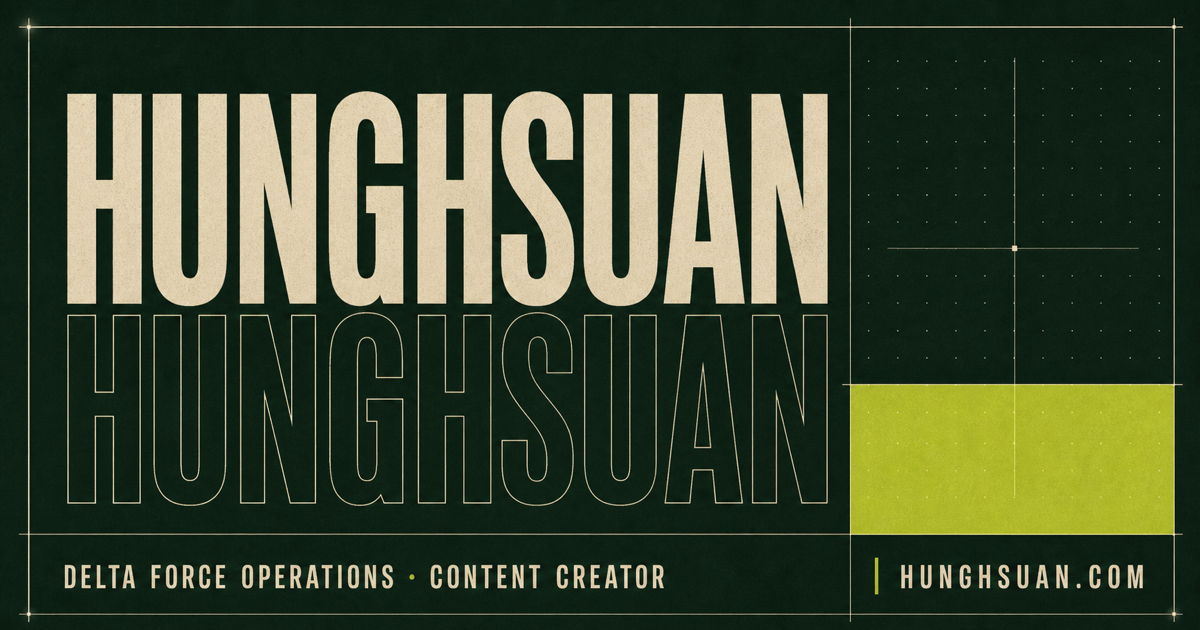
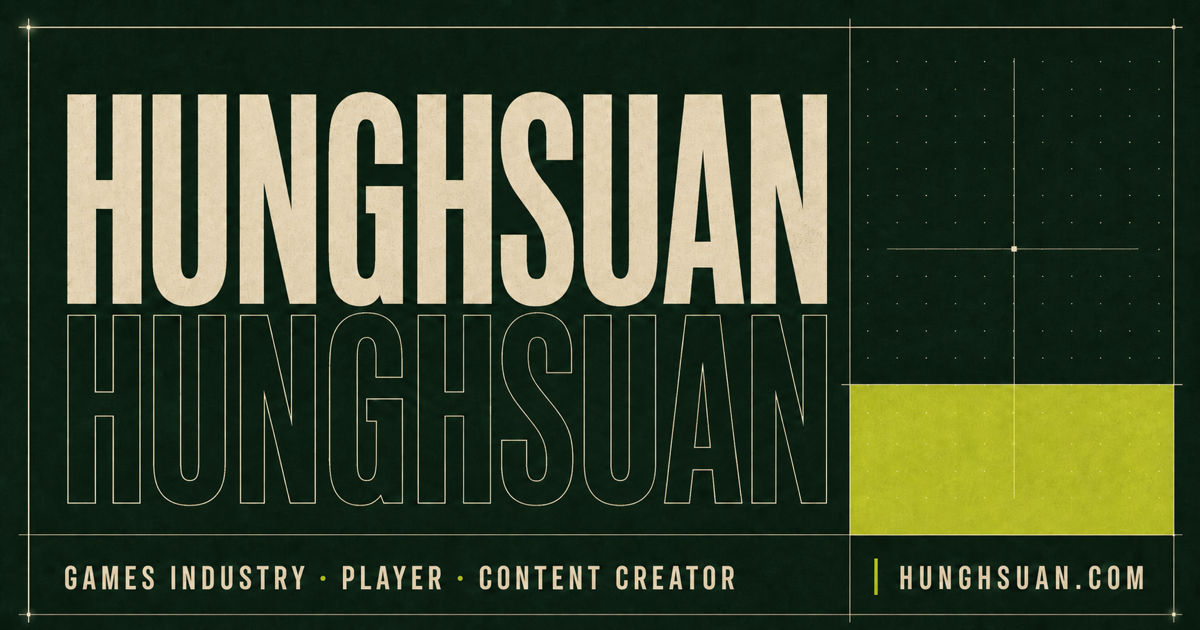
Refine profile copy and add PUBG Mobile

diff --git a/src/content/articles/en/delta-force-mobile-settings.md b/src/content/articles/en/delta-force-mobile-settings.md
@@ -1,32 +1,33 @@
 ---
-title: Complete Delta Force Mobile Settings Guide for iPad
-description: A practical Delta Force Mobile setup covering iPad gestures, four-finger controls, fixed sensitivity, frame rate, audio, and resource management.
+title: My Delta Force Mobile Settings for iPad
+description: My iPad setup for Delta Force Mobile, including gestures, four-finger controls, sensitivity, frame rate, audio, and downloads.
 lang: en
 articleSlug: delta-force-mobile-settings
 translationKey: delta-force-mobile-settings
 category: Tutorial
 publishedAt: 2026-07-30
+updatedAt: 2026-08-22
 draft: false
 featured: true
 videoUrl: https://www.youtube.com/watch?v=bBjU7fhpZE8
 ---
 
-> This guide is based on my settings video published on September 3, 2025. The demonstration device is an 11-inch 2024 iPad Pro with the M4 chip. Different devices, game versions, and play styles may require adjustments.
+> I first covered these settings in a video published on September 3, 2025. I used an 11-inch 2024 iPad Pro with the M4 chip. You may need to adjust a few things for a different device, game version, or play style.
 
-A good setup is about more than copying someone else’s sensitivity numbers. System gestures, the fire button you use, and the choice between fixed and accelerated turning can have a more immediate effect on your controls.
+A good setup is about more than copying someone else’s sensitivity numbers. System gestures, the fire button you use, and the choice between fixed and accelerated turning can make a bigger difference than any single value.
 
-This guide follows the same order as the video and turns the key points into a practical checklist.
+Here are the main settings from the video, organized as a checklist.
 
 ## The short version
 
 - Disable iPad system gestures that can interfere with multi-finger controls.
-- Use fixed Spatial Audio so that the sound field does not follow your head.
+- Set Spatial Audio to Fixed so that the sound field does not follow your head.
 - Use the right fire button if you need continuous melee attacks.
 - Disable camera rotation on the right fire and ADS buttons if you do not want them to drag your view.
 - Disable automatic vaulting to reduce accidental movement during fights.
 - Use fixed sensitivity so that the same swipe distance produces the same turn.
 - Prioritize a stable frame rate over maximum visual quality.
-- Disable licensed music before streaming or recording for platforms with copyright checks.
+- Disable licensed music before streaming or recording if the platform checks for copyrighted audio.
 
 ## 1. Prepare the iPad first
 
@@ -34,7 +35,7 @@ This guide follows the same order as the video and turns the key points into a p
 
 Open the iPad Settings app and find the multitasking and gesture options. Disable three-finger and multi-finger gestures that could be triggered while playing.
 
-If you use a three- or four-finger layout, these system gestures can interrupt touches, switch apps, or take control away from the game. Deal with them before adjusting the in-game HUD.
+If you use a three- or four-finger layout, these system gestures can interrupt touches, switch apps, or take control away from the game. Turn them off before adjusting the in-game HUD.
 
 ### Set Spatial Audio to fixed
 
@@ -44,25 +45,25 @@ Directional audio should stay consistent while you play. If the sound field move
 
 ### Use Do Not Disturb
 
-I normally enable Do Not Disturb so that notifications and other apps cannot interrupt a match. A dedicated gaming Focus mode also works; the goal is to prevent pop-ups from covering the screen.
+I normally enable Do Not Disturb so notifications do not interrupt a match. A dedicated gaming Focus mode works too; the goal is simply to keep pop-ups off the screen.
 
 ## 2. Basic combat controls
 
 ### Hold to aim down sights
 
-I use hold ADS: hold the button to aim and release it to return immediately. This makes switching between ADS and hip fire faster.
+I set ADS to Hold: press and hold to aim, then release to return to hip fire. It makes switching between the two feel faster.
 
-Aim assist is a personal choice rather than a setting every player must copy.
+Aim assist comes down to personal preference, so use whichever option feels better to you.
 
-### Let firing interrupt a reload
+### Let firing interrupt reloads
 
-Use the mixed option that allows firing to interrupt a reload. Once the ammunition count has updated, you can fire without waiting for the entire reload animation to finish.
+Use the mixed option that lets firing interrupt a reload. Once the ammo count updates, you can shoot without waiting for the full animation to finish.
 
-This removes the unnecessary recovery at the end of the animation and shortens the window in which you cannot shoot.
+That lets you skip the end of the reload animation and get back into the fight sooner.
 
 ### Separate actions that are easy to trigger accidentally
 
-Keep jumping, vaulting, crouching, and going prone on predictable controls. I disable automatic vaulting because it can trigger an unwanted vault animation in the middle of a gunfight.
+I keep jump, vault, crouch, and prone on separate, predictable buttons. I also disable automatic vaulting because it can trigger at the worst possible time during a fight.
 
 ## 3. Fire buttons and a four-finger layout
 
@@ -70,7 +71,7 @@ Keep jumping, vaulting, crouching, and going prone on predictable controls. I di
 
 Some layouts place the left and right fire buttons in the same position. The two buttons still have a stacking order, so the game may register a different one from the button you intended to press.
 
-The test shown in the video produced this result:
+In my test:
 
 - Holding the left fire button did not repeat melee attacks.
 - Holding the right fire button repeated melee attacks continuously.
@@ -89,13 +90,13 @@ If you do not want the camera to move while holding fire, disable rotation for t
 - Right index finger: ADS and additional actions.
 - Gyroscope: fine adjustment and recoil control.
 
-A shared HUD code is only a starting point for devices of the same size and a similar grip. Even on another 11-inch iPad, check where your fingers naturally rest before refining button size and position.
+A shared HUD code is only a starting point, even on a device of the same size. Check where your fingers naturally rest, then adjust the button sizes and positions to suit your grip.
 
 ## 4. Configure Operations before Warfare
 
 Operations has mode-specific controls for inventory and loot. I recommend completing the Operations layout first, then importing it into Warfare.
 
-Starting with Warfare means the Operations-only controls will still need to be placed later, creating extra work.
+If you start with Warfare, you will still have to place the Operations-only controls later.
 
 ## 5. Sensitivity: the mode matters more than the number
 
@@ -108,65 +109,65 @@ My personal reference values in the video were:
 - Global touch sensitivity: 125
 - Overall gyroscope sensitivity: 155
 
-These values are not universal. Use a simple rule when fine-tuning individual sensitivities:
+These values will not work for everyone. When fine-tuning your sensitivity:
 
 - If you cannot pull down enough or cannot keep up with a target, raise the value slightly.
 - If you regularly overshoot or pull down too far, lower it slightly.
 
-Change one value in small steps and test it for several matches. Replacing the entire sensitivity setup at once makes it harder to identify the real problem.
+Change one value at a time, in small steps, and test it for a few matches. If you replace every value at once, it is much harder to tell what actually helped.
 
 ## 6. Gameplay and looting
 
 ### Closing inventory when taking damage
 
-I disable the option that automatically closes the inventory or loot screen when taking damage, choosing when to leave it myself.
+I turn off the option that automatically closes the inventory or loot screen when I take damage. I prefer to decide when to close it myself.
 
 There is no single correct answer:
 
 - If a bot is dealing minor damage, taking the valuable item first may be worth it.
 - If a real player is shooting, close the interface, move, and fight immediately.
 
-Enabling auto-close gives a faster automatic response. Disabling it gives you more control. Choose based on how confidently you read the situation.
+Auto-close reacts faster, while turning it off gives you more control. Pick the option that fits the way you play.
 
 ### Enable smart medical recommendations
 
-I recommend enabling smart medical item suggestions. The game can select an appropriate bandage, surgical kit, or other treatment for the current injury, reducing time spent searching through the inventory.
+I recommend enabling smart medical item suggestions. The game can suggest a bandage, surgical kit, or other treatment for your current injury, saving you time in the inventory.
 
 ## 7. Graphics, frame rate, and audio
 
 ### Prioritize a stable frame rate
 
-My setup is designed for a clean and responsive image:
+I keep the visuals simple and prioritize responsiveness:
 
 - Graphics quality: Smooth
-- Frame rate: the highest option the device can sustain; the demonstration device uses 180 FPS
+- Frame rate: the highest option the device can sustain; my iPad is set to 180 FPS
 - Visual style: Vivid
 - Anti-aliasing: enabled
 - Hit effect color: pink
 
-A high frame rate makes movement and aiming feel smoother, but an overheating device may throttle and become less consistent. Use a cooler or reduce frame rate and graphics load if the device becomes hot or starts dropping frames.
+A high frame rate makes movement and aiming feel smoother, but an overheating device may throttle and drop frames. Use a cooler, lower the frame rate, or reduce the graphics load if that happens.
 
 Pink hit effects are easy for me to see. If another color stands out more clearly to you, use that instead.
 
 ### Audio settings
 
-I keep the important game audio high and enable Dolby Atmos to help identify environmental and directional sounds. The video also showed the music slider returning to the lowest non-zero value, which may have been a display or settings issue in that game version.
+I keep the important game audio high and enable Dolby Atmos to make directional sounds easier to place. In the video, the music slider kept returning to the lowest non-zero value, which may have been a bug in that version of the game.
 
-Disable licensed music when streaming to international platforms, uploading videos, or using any platform with copyright checks. This can prevent muted streams and copyright claims.
+Disable licensed music before streaming or uploading videos to platforms that check for copyrighted audio. It may help you avoid muted streams or copyright claims.
 
 ## 8. Downloads and map management
 
-I prefer the low-resolution support pack to keep the installation and image presentation lightweight.
+I use the low-resolution support pack to keep the download smaller and the game lighter.
 
-You can also remove maps you do not play and disable automatic downloads. Matchmaking normally requires the relevant map to be installed, so keeping only selected maps can limit the available map pool.
+You can also remove maps you do not play and turn off automatic downloads. Because a map must normally be installed before you can queue for it, keeping only selected maps can limit the available pool.
 
-For example, keeping only Ascension for Warfare and disabling automatic downloads should prevent other uninstalled maps from loading. Matchmaking rules can change with game updates, so follow the current in-game message if it behaves differently.
+For example, if Ascension is the only Warfare map installed and automatic downloads are off, the game should not queue you for the others. Matchmaking rules may change, so follow the current in-game prompts if this works differently in a later version.
 
 ## 9. Language and vehicle settings
 
-I prefer the English interface and announcements. However, the test in the video showed that some operator or voice packs may keep their own language, so selecting English does not necessarily change every character voice to English.
+I prefer the English interface and announcements. Some operator voice packs may still use their original language, so selecting English does not necessarily change every voice line.
 
-Vehicle controls depend heavily on personal preference, so the video does not prescribe a universal set of values. Remember that the vehicle settings page can scroll farther down; aircraft and other control options may be below the first screen.
+Vehicle controls are highly personal, so I do not have one setup that everyone should copy. Remember to scroll down on the vehicle settings page—aircraft and other options may be below the first screen.
 
 ## Final checklist
 
@@ -183,4 +184,4 @@ Before entering a match, confirm:
 9. Smart medical recommendations are enabled.
 10. Licensed music is disabled before streaming or recording.
 
-The goal is not to copy every number. Remove system interference and button conflicts first, then build a consistent control scheme that your hands can learn.
+Do not worry about copying every number. Start by removing system interference and button conflicts, then adjust the rest until the controls feel consistent in your hands.
